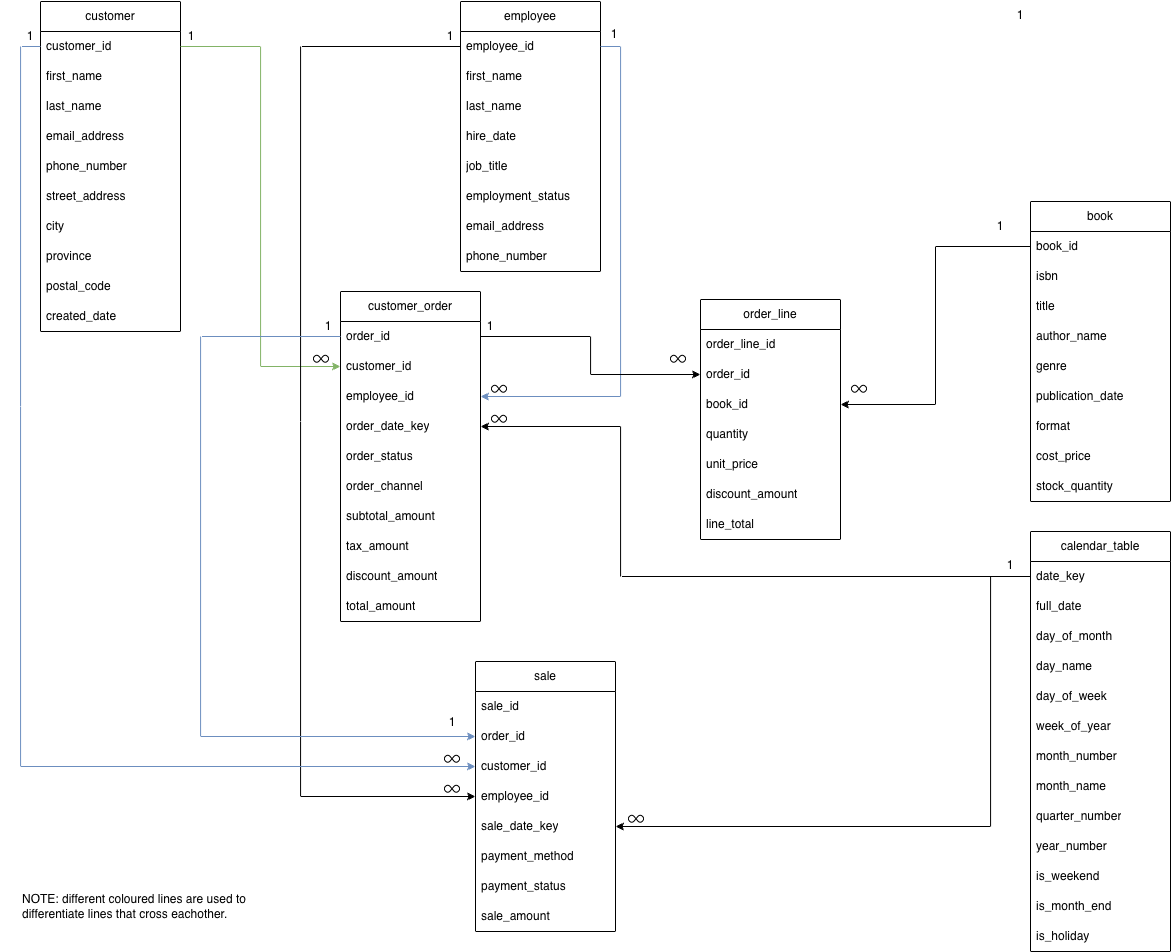
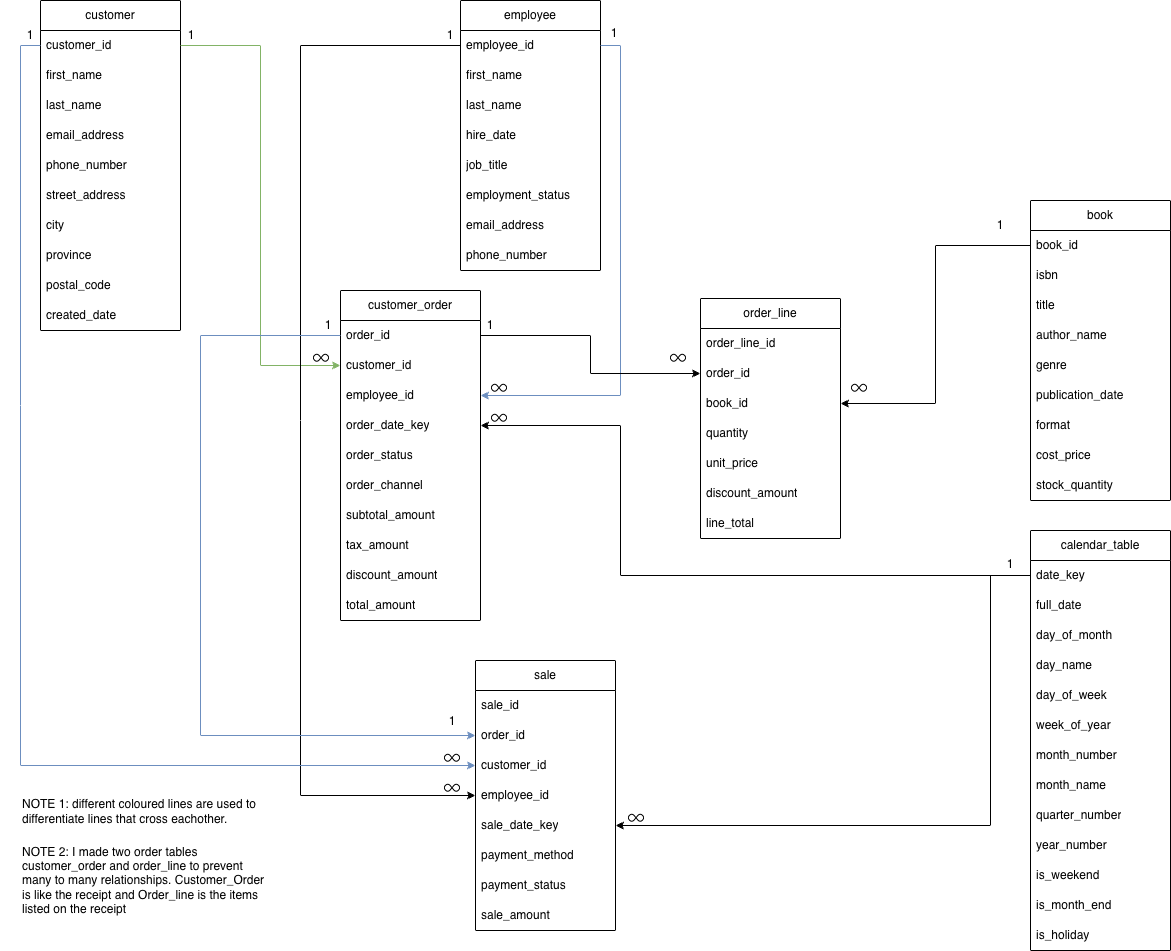
adjustments to each part of the assignment

diff --git a/02_activities/assignments/DC_Cohort/Assignment2.md b/02_activities/assignments/DC_Cohort/Assignment2.md
@@ -56,7 +56,15 @@ The store wants to keep customer addresses. Propose two architectures for the CU
 **HINT:** search type 1 vs type 2 slowly changing dimensions. 
 
 ```
-Type 1 and 2 slowly changing dimensions are modeling techniques used to manage how changes in 'descriptive dimension data' are tracked over time. Type 1 method overwrites the existing value with the new value and Type 2 method adds a new row for the new value and maintains the history of the exisiting row. Using the Type 1 method, the CUSTOMER_ADDRESS table would only store the customer's current address. Using the Type 2 method, to retain changes, the CUSTOMER_ADDRESS table would need to keep a history of addresses by adding a new row whenever the customer's address changes. I imagine the primary keys between the two types would change, where 'customer_id' would serve as the primary key in the Type 1 model and something like 'customer_address_id' would serve as the primary key in the Type 2 model. 
+Type 1 and 2 slowly changing dimensions are modeling techniques used to manage how changes in 'descriptive dimension data' are tracked over time. Briefly, in this case, the Type 1 method overwrites the existing value with the new value and the Type 2 method adds a new row for the new value and maintains the history of the exisiting row. 
+
+Using the Type 1 method, the CUSTOMER_ADDRESS table would only store the customer's current address, to do this, we would simply UPDATE the row information by using an UPDATE query. 
+
+Using the Type 2 method, to retain changes, the CUSTOMER_ADDRESS table would need to keep a history of addresses by adding a new row whenever the customer's address changes. In this case, this will be achieved using the INSERT query, with the new values.
+
+I imagine the primary keys between the two types would be different, where 'customer_id' would serve as the primary key in the Type 1 model and 'customer_address_id' would serve as the primary key in the Type 2 model. For this reason, in the Type 1 model, the UPDATE query will need to set a constraint_expression like: WHERE customer_id = some number. 
+
+
 ```
 
 ***
@@ -191,5 +199,9 @@ Consider, for example, concepts of labour, bias, LLM proliferation, moderating c
 
 
 ```
-The overarching idea here is that AI systems are not 'independent' intelligence and that AI output is shaped by human input. Therein lies the problem - human biases, assumptions and limitations are embedded in the output since patters are learned from human-provided data. This is particularly concerning considering LLMs are becoming common and built into many things in day-to-day life - appearing to be objective, when they are not. More content becomes available to the masses, and it becomes harder to verify what is truth - providing convincing, but sometimes wrong, information. I myself have asked ChatGPT questions before, to which I received a flawed yet articulate response. To most people these days, news is delivered via social media, like X (twitter) or instagram. These platforms are filled with huge amounts of AI-generated text that can drown out authentic human voices - which make it much harder to identify authentic information. Another accompanying concern is the current reliance on AI - as people trust AI answers without questioning it, impacting behaviour and decisions. And, another concern is the drift towards the homogenization of culture as a result, since LLMs reflect dominant cultural norms - inevitably erasing minority values. Importantly, with all this, there is a tremendous lack of transparency, as the way decisions are made are left unclear since users of AI don't know how outputs are generated. And when wrong information or biased decisions are made, determining who is responsible is unclear, with the ethical concern being a lack of accountability. As the article mentioned, AI systems don't just generate the ideas from nothing, they rely on human workers, which according to the article and other sources I have consulted, are often low-paid, outsourced and lacking protections.
+The overarching idea here is that AI systems are not 'independent' intelligence and that AI output is shaped by human input. Therein lies the problem - human biases, assumptions and limitations are embedded in the output since patterns are learned from human-provided data. This is particularly concerning considering LLMs are becoming common and built into many things in day-to-day life - appearing to be objective, when they are not. As more content becomes available to the masses, it becomes harder to verify what is truth because LLMs provide convincing, but sometimes wrong, information, once again, appearing to be objective. I myself have asked ChatGPT questions before, to which I received a flawed yet articulate response. 
+
+To most people these days, news is delivered via social media, like X (twitter) or instagram. These platforms are filled with huge amounts of AI-generated text that clearly drown out true human voices, making it increasingly difficult to identify authentic information. Another accompanying concern is the current reliance on AI, as many may trust AI answers without question, this imposes a real impact on their decision-making and behavior. Importantly, with all this, there is a tremendous lack of transparency, as the way decisions are made (by AI) are left unclear since users of AI don't know how outputs are generated. And when wrong information is shared, or biased decisions are made, determining who is responsible is not possible. The ethical concern with this is the lack of accountability.
+
+Another ethical concern that arises from the preceived 'objective nature' of AI is the homogenization of culture. Since LLMs reflect dominant cultural norms - specifically of those initially feeding into it - underrepresented values are inevitably erased. As the article mentioned, AI systems don't just generate the ideas from nothing, they rely on human workers, which according to the article and other sources I have consulted, are often unethically sourced themselves.
 ```
